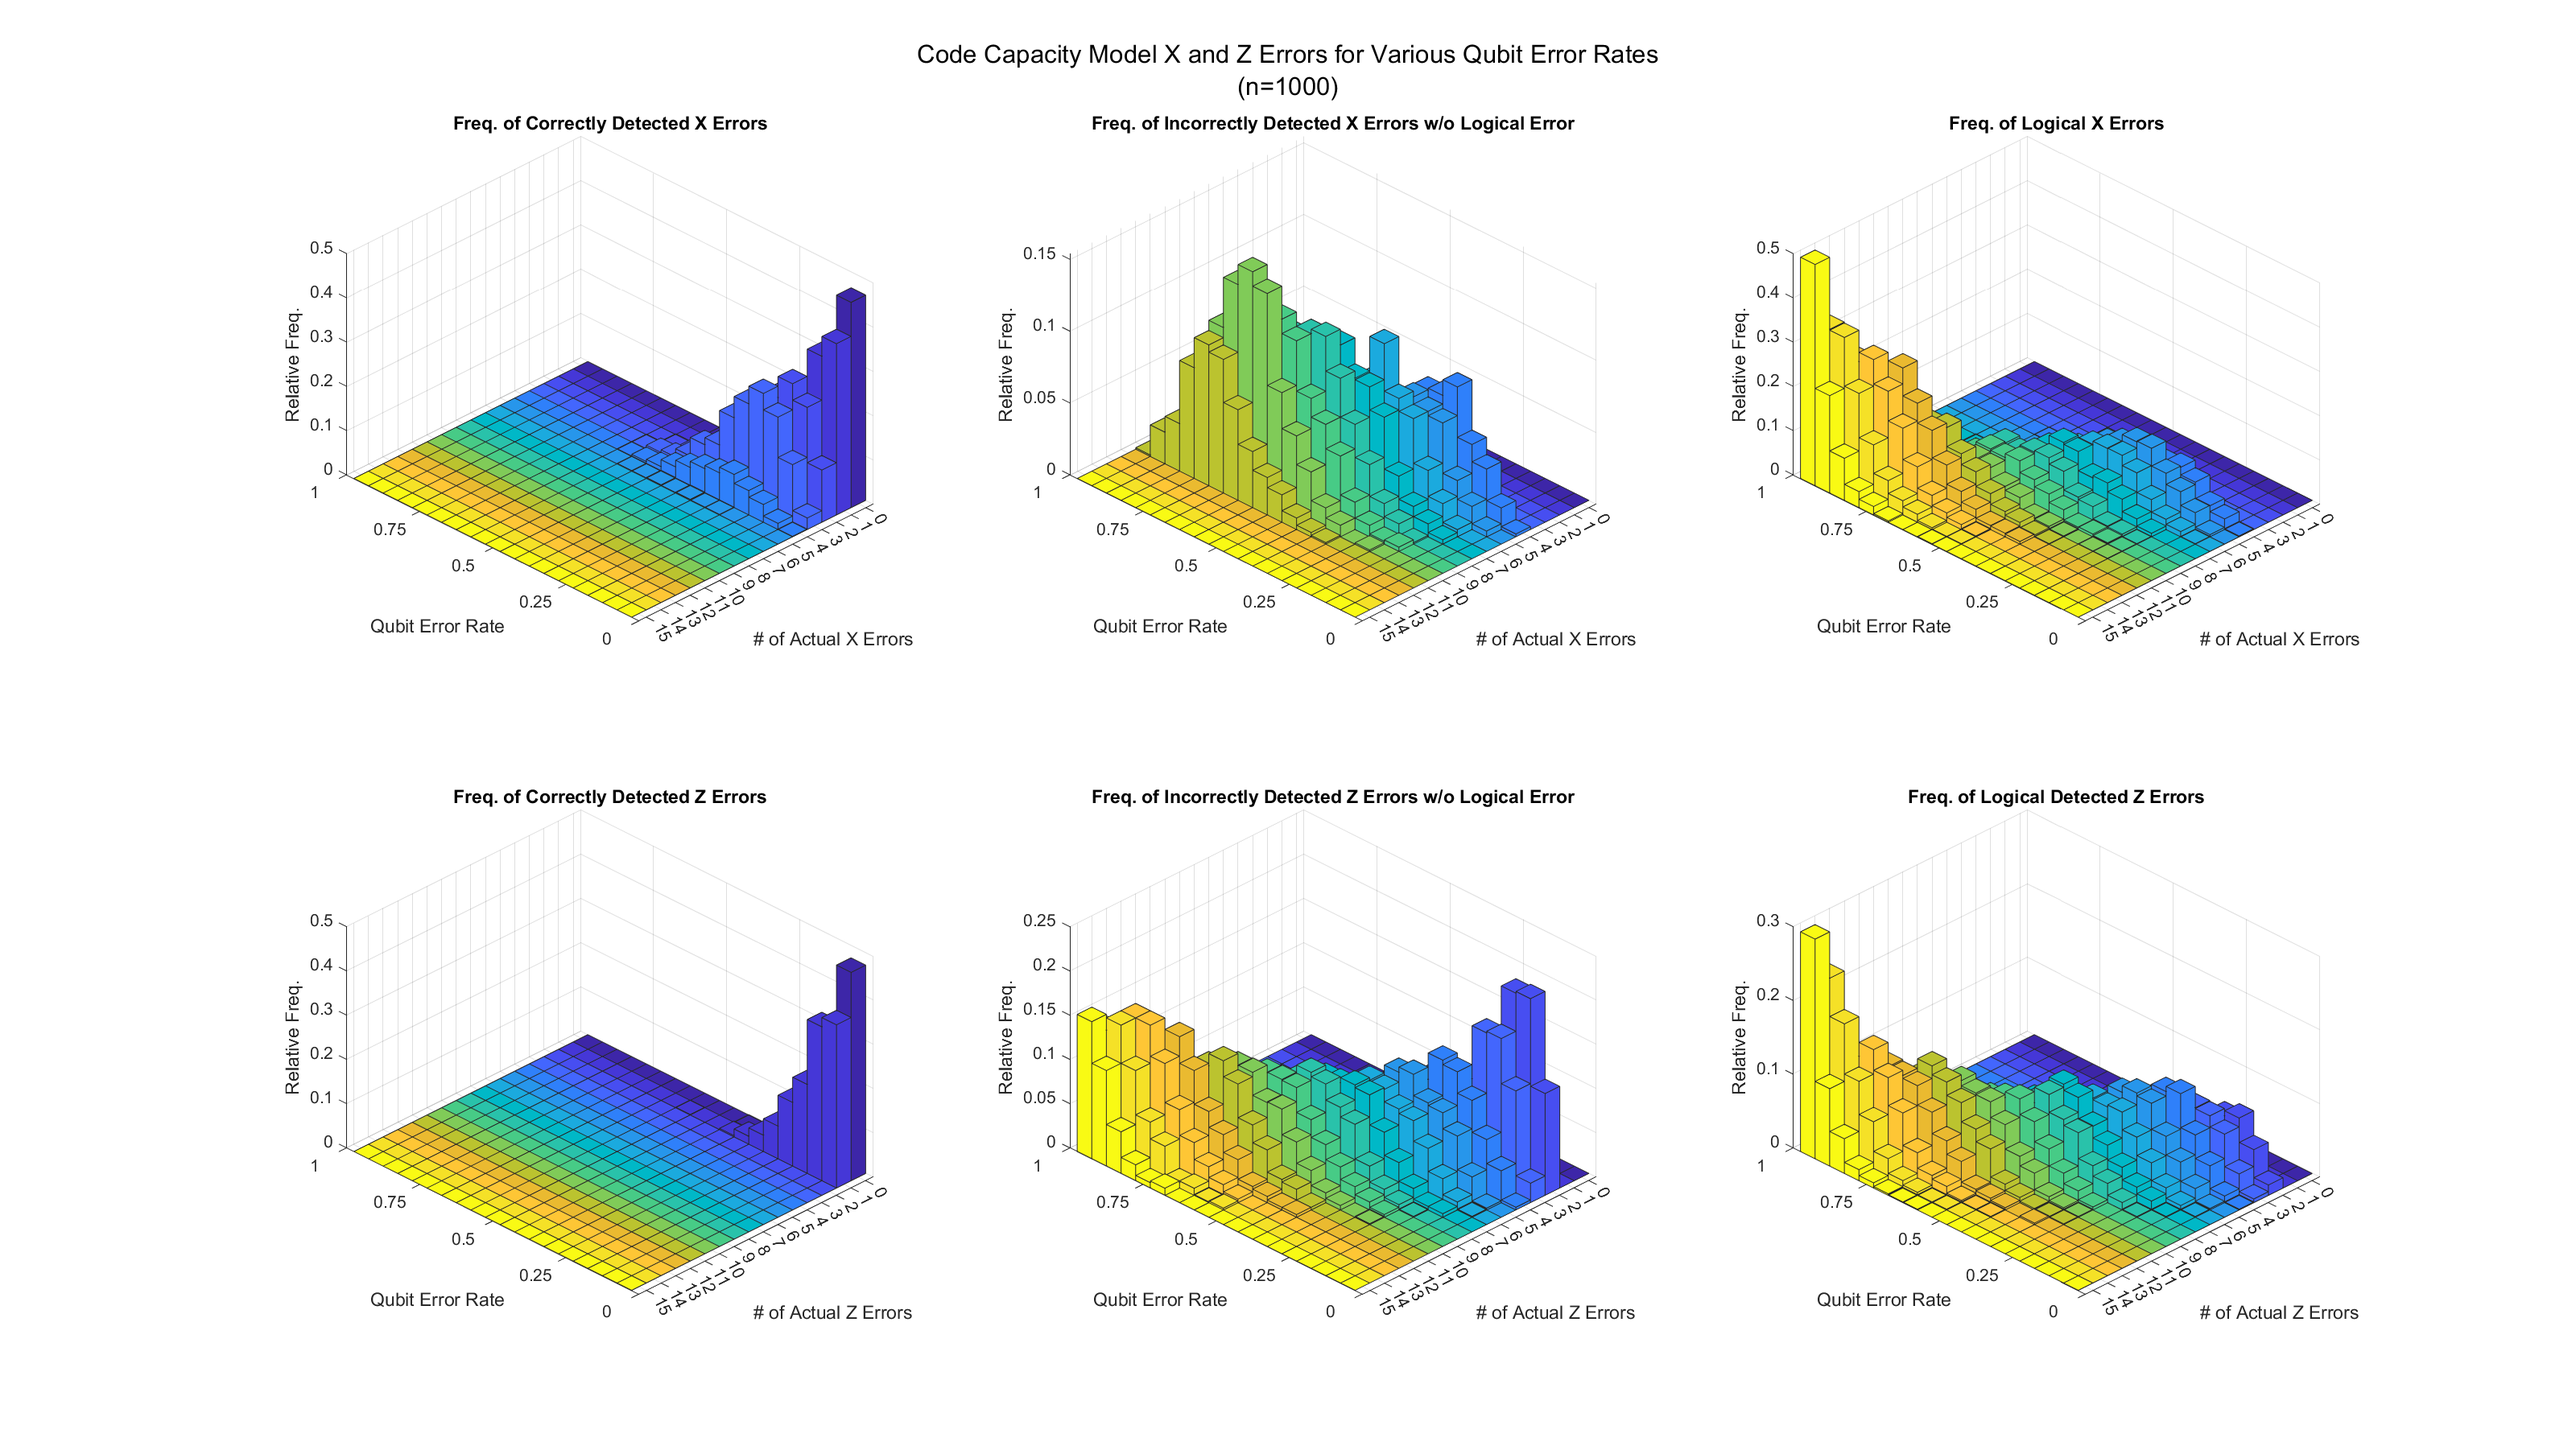
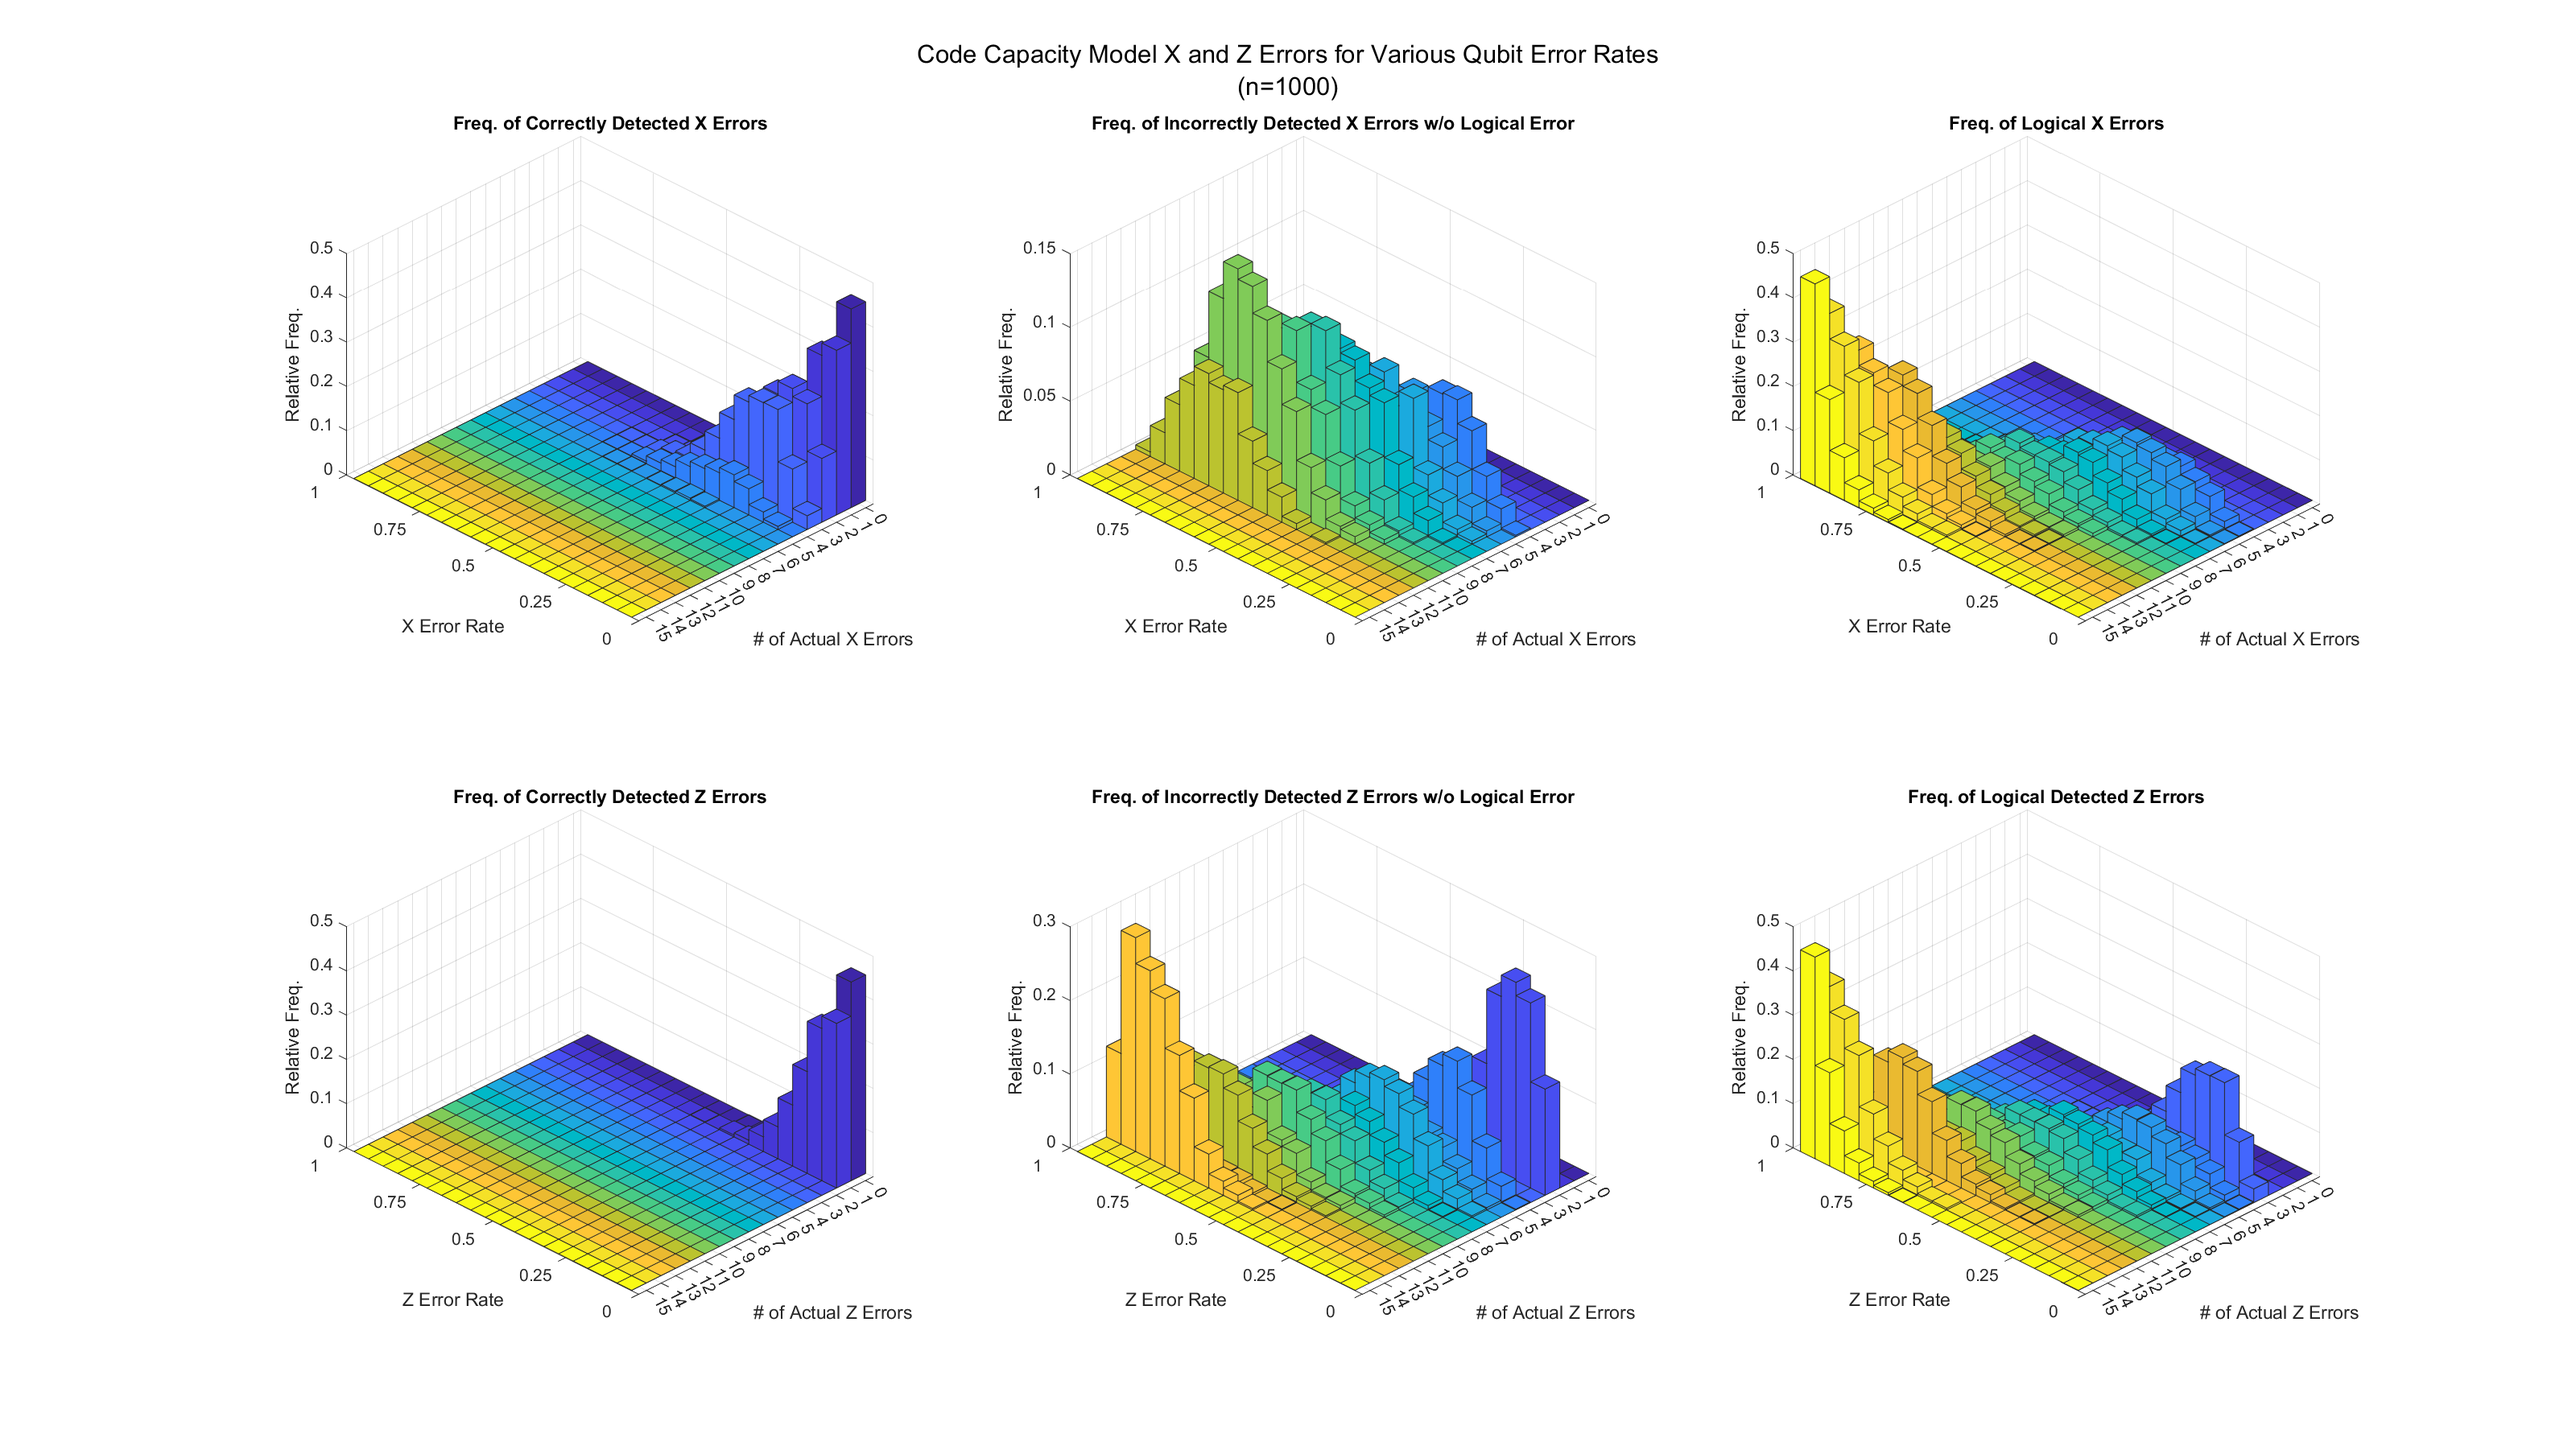
New runs + matlab visualizations

diff --git a/reed_muller.py b/reed_muller.py
@@ -278,6 +278,7 @@ def benchmark(n=10):
 def debug_run():
     rm_state = ket0.copy()
     rm_state = rm_encode(rm_state)
+    # make sure checks are working for single-qubit errors
     for i in range(0,15):
         rm_state = apply_gate_on(rm_state, X, 1<<i)
         Zchecks, Xchecks = check(rm_state)
@@ -289,43 +290,56 @@ def debug_run():
         print(bits_to_array(Zcheck_decode[Zchecks]), bits_to_array(Xcheck_decode[Xchecks]))
         rm_state = apply_gate_on(rm_state, Z, 1<<i)
     rm_state = rm_decode(rm_state)
+    # make sure state returns to |0>
     print(vec(rm_state))
+    # make sure logical X works
     rm_state = rm_encode(rm_state)
     rm_state = apply_gates(rm_state, 15*[X])
     rm_state = rm_decode(rm_state)
     print(vec(rm_state))
+    # make sure logical Z works
     rm_state = rm_encode(rm_state)
     rm_state = apply_gates(rm_state, 15*[Z])
     rm_state = rm_decode(rm_state)
     print(vec(rm_state))
 
-def single_run(error_rate=0.1, noise_seed=None, model='cc',ph_error=0.1, ph_rep=3, ph_seed=None):
+# perform a single QEC cycle
+def single_run(error_rate=0.1, noise_seed=None, model='cc', ph_error=0.1, ph_rep=3, ph_seed=None):
     rng = np.random.default_rng(seed=noise_seed)
+    # generate arrays that represent where errors are applied
+    # 0 means apply identity, 1 means apply error
     Xrand = rng.choice(2, 15, p=[1-error_rate, error_rate])
     Zrand = rng.choice(2, 15, p=[1-error_rate, error_rate])
     Xerrors = 0
     Zerrors = 0
+    # convert array to bit array
+    # leftmost is 15th qubit, rightmost is 1st qubit
     for i in range(15):
         Xerrors |= Xrand[i]<<i
         Zerrors |= Zrand[i]<<i
+    # prepare state
     rm_state = ket0.copy()
     rm_state = rm_encode(rm_state)
+    # apply errors
     rm_state = apply_gate_on(rm_state, X, Xerrors)
     rm_state = apply_gate_on(rm_state, Z, Zerrors)
     Zchecks = 0
-    Xchecks = 0 
+    Xchecks = 0
+    # if error model is phenomenological, simulate measurement errors
     if model=='ph':
         reps = []
         meas_rng = np.random.default_rng(seed=ph_seed)
+        # preform repeated measurements with error
         for i in range(ph_rep):
             combined_check = check(rm_state)
             combined_check = (combined_check[0]<<4)|(combined_check[1])
             rand_meas = rng.choice(2, 14, p=[1-ph_error, ph_error])
             for j in range(14):
-                if rand_meas[i]:
+                if rand_meas[j]:
                     combined_check ^= 1<<j
             reps.append(combined_check)
         majority_check = 0
+        # for each stabilizer, pick the most probable result using majority voting
         for i in range(14):
             count = 0
             for rep in reps:
@@ -334,12 +348,15 @@ def single_run(error_rate=0.1, noise_seed=None, model='cc',ph_error=0.1, ph_rep=
                 majority_check |= 1<<i
         Zchecks = majority_check >> 4
         Xchecks = majority_check & 15 #0b1111
+    # otherwise, assume perfect measurements
     else:
         Zchecks,Xchecks = check(rm_state)
+    # use lookup table to apply X and Z corrections
     rm_state = apply_gate_on(rm_state, X, Zcheck_decode[Zchecks])
     rm_state = apply_gate_on(rm_state, Z, Xcheck_decode[Xchecks])
     rm_state = rm_decode(rm_state)
     
+    # count number of actual errors
     Xerror_ct = Xerrors.bit_count()
     Zerror_ct = Zerrors.bit_count()
     
@@ -361,7 +378,7 @@ def single_run(error_rate=0.1, noise_seed=None, model='cc',ph_error=0.1, ph_rep=
         Zerror_type = 5
     return Xerror_ct, Xerror_type, Zerror_ct, Zerror_type
 
-# simulate a noisy Pauli error channel
+# simulate a Pauli error channel
 # n is number of runs
 # error_rate is the chance of an error on one qubit
 # noise_seed is the seed used for qubit errors
@@ -379,9 +396,11 @@ def simulate_QEC(n=100, error_rate=0.1, noise_seed=None, model='cc', ph_error=0.
 	# - 4: Incorrectly detected Z error that did not cause logical error
 	# - 5: Logical Z error
     errors = np.zeros((16,6),dtype=int)
+    
     results = None
     with mp.Pool() as p:
-        results = p.starmap(single_run, n*[(error_rate, noise_seed, model,ph_error, ph_rep, ph_seed)])
+        results = p.starmap(single_run, n*[(error_rate, noise_seed, model, ph_error, ph_rep, ph_seed)])
+    # store results of runs into errors array
     for r in results:
         errors[r[0]][r[1]] += 1
         errors[r[2]][r[3]] += 1

diff --git a/tetrahedron_visual.m b/tetrahedron_visual.m
@@ -1,0 +1,139 @@
+clear
+sin(acos(-1/3)/2)
+
+s2c = @(rho,theta,phi) [rho*sin(theta)*cos(phi) rho*sin(theta)*sin(phi) rho*cos(theta)];
+clf
+figure(1)
+XYZr = [s2c(1,0,0);
+       s2c(tan(pi/6),acos(-1/3)/2,0);
+       s2c(1/3,acos(-1/3)/2,pi/3);
+       s2c(tan(pi/6),acos(-1/3)/2,2*pi/3);
+       
+       s2c(1,0,0);
+       s2c(tan(pi/6),acos(-1/3)/2,2*pi/3);
+       s2c(1/3,acos(-1/3)/2,pi);
+       s2c(tan(pi/6),acos(-1/3)/2,4*pi/3);
+       
+       s2c(1,0,0);
+       s2c(tan(pi/6),acos(-1/3)/2,4*pi/3);
+       s2c(1/3,acos(-1/3)/2,-pi/3);
+       s2c(tan(pi/6),acos(-1/3)/2,0);
+       ];
+
+Xr = XYZr(:,1);
+Yr = XYZr(:,2);
+Zr = XYZr(:,3);
+
+XYZg = [s2c(1,acos(-1/3),0);
+       s2c(tan(pi/6),acos(-1/3)/2,0);
+       s2c(1/3,acos(-1/3)/2,pi/3);
+       s2c(tan(pi/6),acos(tan(-pi/6)),pi/3);
+       
+       s2c(1,acos(-1/3),0);
+       s2c(tan(pi/6),acos(tan(-pi/6)),pi/3);
+       s2c(1/3,pi,0)
+       s2c(tan(pi/6),acos(tan(-pi/6)),-pi/3);
+       
+       s2c(1,acos(-1/3),0);
+       s2c(tan(pi/6),acos(tan(-pi/6)),-pi/3);
+       s2c(1/3,acos(-1/3)/2,-pi/3);
+       s2c(tan(pi/6),acos(-1/3)/2,0);
+       ];
+
+Xg = XYZg(:,1);
+Yg = XYZg(:,2);
+Zg = XYZg(:,3);
+
+XYZb = [s2c(1,acos(-1/3),2*pi/3);
+       s2c(tan(pi/6),acos(-1/3)/2,2*pi/3);
+       s2c(1/3,acos(-1/3)/2,pi);
+       s2c(tan(pi/6),acos(tan(-pi/6)),pi);
+       
+       s2c(1,acos(-1/3),2*pi/3);
+       s2c(tan(pi/6),acos(tan(-pi/6)),pi);
+       s2c(1/3,pi,0)
+       s2c(tan(pi/6),acos(tan(-pi/6)),pi/3);
+       
+       s2c(1,acos(-1/3),2*pi/3);
+       s2c(tan(pi/6),acos(tan(-pi/6)),pi/3);
+       s2c(1/3,acos(-1/3)/2,pi/3);
+       s2c(tan(pi/6),acos(-1/3)/2,2*pi/3);
+       ];
+
+Xb = XYZb(:,1);
+Yb = XYZb(:,2);
+Zb = XYZb(:,3);
+
+XYZy = [s2c(1,acos(-1/3),4*pi/3);
+       s2c(tan(pi/6),acos(-1/3)/2,4*pi/3);
+       s2c(1/3,acos(-1/3)/2,-pi/3);
+       s2c(tan(pi/6),acos(tan(-pi/6)),-pi/3);
+       
+       s2c(1,acos(-1/3),4*pi/3);
+       s2c(tan(pi/6),acos(tan(-pi/6)),-pi/3);
+       s2c(1/3,pi,0)
+       s2c(tan(pi/6),acos(tan(-pi/6)),pi);
+       
+       s2c(1,acos(-1/3),4*pi/3);
+       s2c(tan(pi/6),acos(tan(-pi/6)),pi);
+       s2c(1/3,acos(-1/3)/2,pi);
+       s2c(tan(pi/6),acos(-1/3)/2,4*pi/3);
+       ];
+
+Xy = XYZy(:,1);
+Yy = XYZy(:,2);
+Zy = XYZy(:,3);
+
+XYZk = [s2c(0,0,0);
+        s2c(1/3,acos(-1/3)/2,-pi/3);
+        s2c(tan(pi/6),acos(tan(-pi/6)),-pi/3);
+        s2c(1/3,pi,0);
+
+        s2c(0,0,0);
+        s2c(1/3,acos(-1/3)/2,pi/3);
+        s2c(tan(pi/6),acos(tan(-pi/6)),pi/3);
+        s2c(1/3,pi,0);
+
+        s2c(0,0,0);
+        s2c(1/3,acos(-1/3)/2,pi);
+        s2c(tan(pi/6),acos(tan(-pi/6)),pi);
+        s2c(1/3,pi,0);
+
+        s2c(0,0,0);
+        s2c(1/3,acos(-1/3)/2,-pi/3);
+        s2c(tan(pi/6),acos(-1/3)/2,4*pi/3);
+        s2c(1/3,acos(-1/3)/2,pi);
+
+        s2c(0,0,0);
+        s2c(1/3,acos(-1/3)/2,pi/3);
+        s2c(tan(pi/6),acos(-1/3)/2,0);
+        s2c(1/3,acos(-1/3)/2,-pi/3);
+
+        s2c(0,0,0);
+        s2c(1/3,acos(-1/3)/2,pi);
+        s2c(tan(pi/6),acos(-1/3)/2,2*pi/3);
+        s2c(1/3,acos(-1/3)/2,pi/3);
+       ];
+
+Xk = XYZk(:,1);
+Yk = XYZk(:,2);
+Zk = XYZk(:,3);
+
+hold on
+patch(Xr,Yr,Zr,'r','FaceAlpha',.5)
+for k=1:3
+    patch(Xg(4*k-3:4*k),Yg(4*k-3:4*k),Zg(4*k-3:4*k),'g','FaceAlpha',.5)
+    patch(Xb(4*k-3:4*k),Yb(4*k-3:4*k),Zb(4*k-3:4*k),'b','FaceAlpha',.5)
+    patch(Xy(4*k-3:4*k),Yy(4*k-3:4*k),Zy(4*k-3:4*k),'y','FaceAlpha',.5)
+end
+for k=1:6
+    patch(Xk(4*k-3:4*k),Yk(4*k-3:4*k),Zk(4*k-3:4*k),'k','FaceAlpha',.5)
+end
+hold off
+
+
+axis equal
+grid off
+view(120,15)
+set(gca,'XColor','none','Ycolor','none','Zcolor','none')
+saveas(gcf,'tetrahedron.png')

diff --git a/error_plot.m b/error_plot.m
@@ -4,8 +4,9 @@ load('results.mat')
 total = sum(error_results_cc,'all');
 error_results_size = size(error_results_cc);
 
-error_results_cc = double(error_results_cc)/total*2*error_results_size(1);
-error_results_ph = double(error_results_ph)/total*2*error_results_size(1);
+error_results_cc = double(error_results_cc)/1000;
+error_results_ph_meas = double(error_results_ph_meas)/1000;
+error_results_ph_rep = double(error_results_ph_rep)/1000;
 
 step = 1/(error_results_size(1)+1);
 
@@ -21,7 +22,11 @@ for k=1:6
     else
         xlabel('# of Actual Z Errors')
     end
-    ylabel('Qubit Error Rate')
+    if k < 4
+        ylabel('X Error Rate')
+    else
+        ylabel('Z Error Rate')
+    end
     zlabel('Relative Freq.')
     view(135,30)
 end
@@ -46,7 +51,7 @@ saveas(gcf,'3D_plot_cc.png')
 figure(2)
 for k=1:6
     subplot(2,3,k)
-    bar3(error_results_ph(:,:,k),1)
+    bar3(error_results_ph_meas(:,:,k),1)
     set(gca,'XTickLabel',0:1:15)
     set(gca,'YTickLabel',0:0.25:1)
     if k < 4
@@ -73,4 +78,37 @@ subplot(2,3,6)
 title('Freq. of Logical Detected Z Errors')
 
 sgtitle({'Phenomenological Model X and Z Errors for Various Measurement Error Rates','(n=1000, Qubit Error Rate=0.1)'})
-saveas(gcf,'3D_plot_ph.png')
+saveas(gcf,'3D_plot_ph_meas.png')
+
+%%
+figure(3)
+for k=1:6
+    subplot(2,3,k)
+    bar3(error_results_ph_rep(:,:,k),1)
+    set(gca,'XTickLabel',0:1:15)
+    set(gca,'YTickLabel',1:2:31)
+    if k < 4
+        xlabel('# of Actual X Errors')
+    else
+        xlabel('# of Actual Z Errors')
+    end
+    ylabel('Measurement Repetitions')
+    zlabel('Relative Freq.')
+    view(135,30)
+end
+
+subplot(2,3,1)
+title('Freq. of Correctly Detected X Errors')
+subplot(2,3,2)
+title('Freq. of Incorrectly Detected X Errors w/o Logical Error')
+subplot(2,3,3)
+title('Freq. of Logical X Errors')
+subplot(2,3,4)
+title('Freq. of Correctly Detected Z Errors')
+subplot(2,3,5)
+title('Freq. of Incorrectly Detected Z Errors w/o Logical Error')
+subplot(2,3,6)
+title('Freq. of Logical Detected Z Errors')
+
+sgtitle({'Phenomenological Model X and Z Errors for Various Measurement Repetitions','(n=1000, Qubit Error Rate=0.1, Measurement Error Rate=0.1)'})
+saveas(gcf,'3D_plot_ph_rep.png')

diff --git a/ECE621_QEC.py b/ECE621_QEC.py
@@ -17,8 +17,7 @@ if __name__ == '__main__':
 
         end_time = time.perf_counter()-start_time
         print(end_time)
-    if not os.path.exists('sim_results_ph.npy'):
-        # if not, do runs
+    if not os.path.exists('sim_results_ph_meas.npy'):
         start_time = time.perf_counter()
         runs = 1000
         steps = 20
@@ -28,14 +27,30 @@ if __name__ == '__main__':
             error_results[i-1] = simulate_QEC(n=runs, error_rate=0.1, model='ph', ph_error=np.round(i/steps,2))
                     
         error_results = np.array(error_results)
-        np.save('sim_results_ph.npy', error_results)
+        np.save('sim_results_ph_meas.npy', error_results)
 
         end_time = time.perf_counter()-start_time
         print(end_time)
+    if not os.path.exists('sim_results_ph_rep.npy'):
+        start_time = time.perf_counter()
+        runs = 1000
+        steps = 16
+        error_results = (steps-1)*[None]
+
+        for i in range(1,steps):
+            error_results[i-1] = simulate_QEC(n=runs, error_rate=0.1, model='ph', ph_error=0.1, ph_rep=2*i-1)
+                    
+        error_results = np.array(error_results)
+        np.save('sim_results_ph_rep.npy', error_results)
+
+        end_time = time.perf_counter()-start_time
+        print(end_time)
+    
     # load simulation results        
     error_results_cc = np.load('sim_results_cc.npy')
-    error_results_ph = np.load('sim_results_ph.npy')
+    error_results_ph_meas = np.load('sim_results_ph_meas.npy')
+    error_results_ph_rep = np.load('sim_results_ph_rep.npy')
 
     # save to Matlab file
-    sp.io.savemat("results.mat", {'error_results_cc':error_results_cc, 'error_results_ph':error_results_ph})
+    sp.io.savemat("results.mat", {'error_results_cc':error_results_cc, 'error_results_ph_meas':error_results_ph_meas, 'error_results_ph_rep':error_results_ph_rep})
     # a Matlab file is used to make plots because the plots in Matlab are of higher quality
